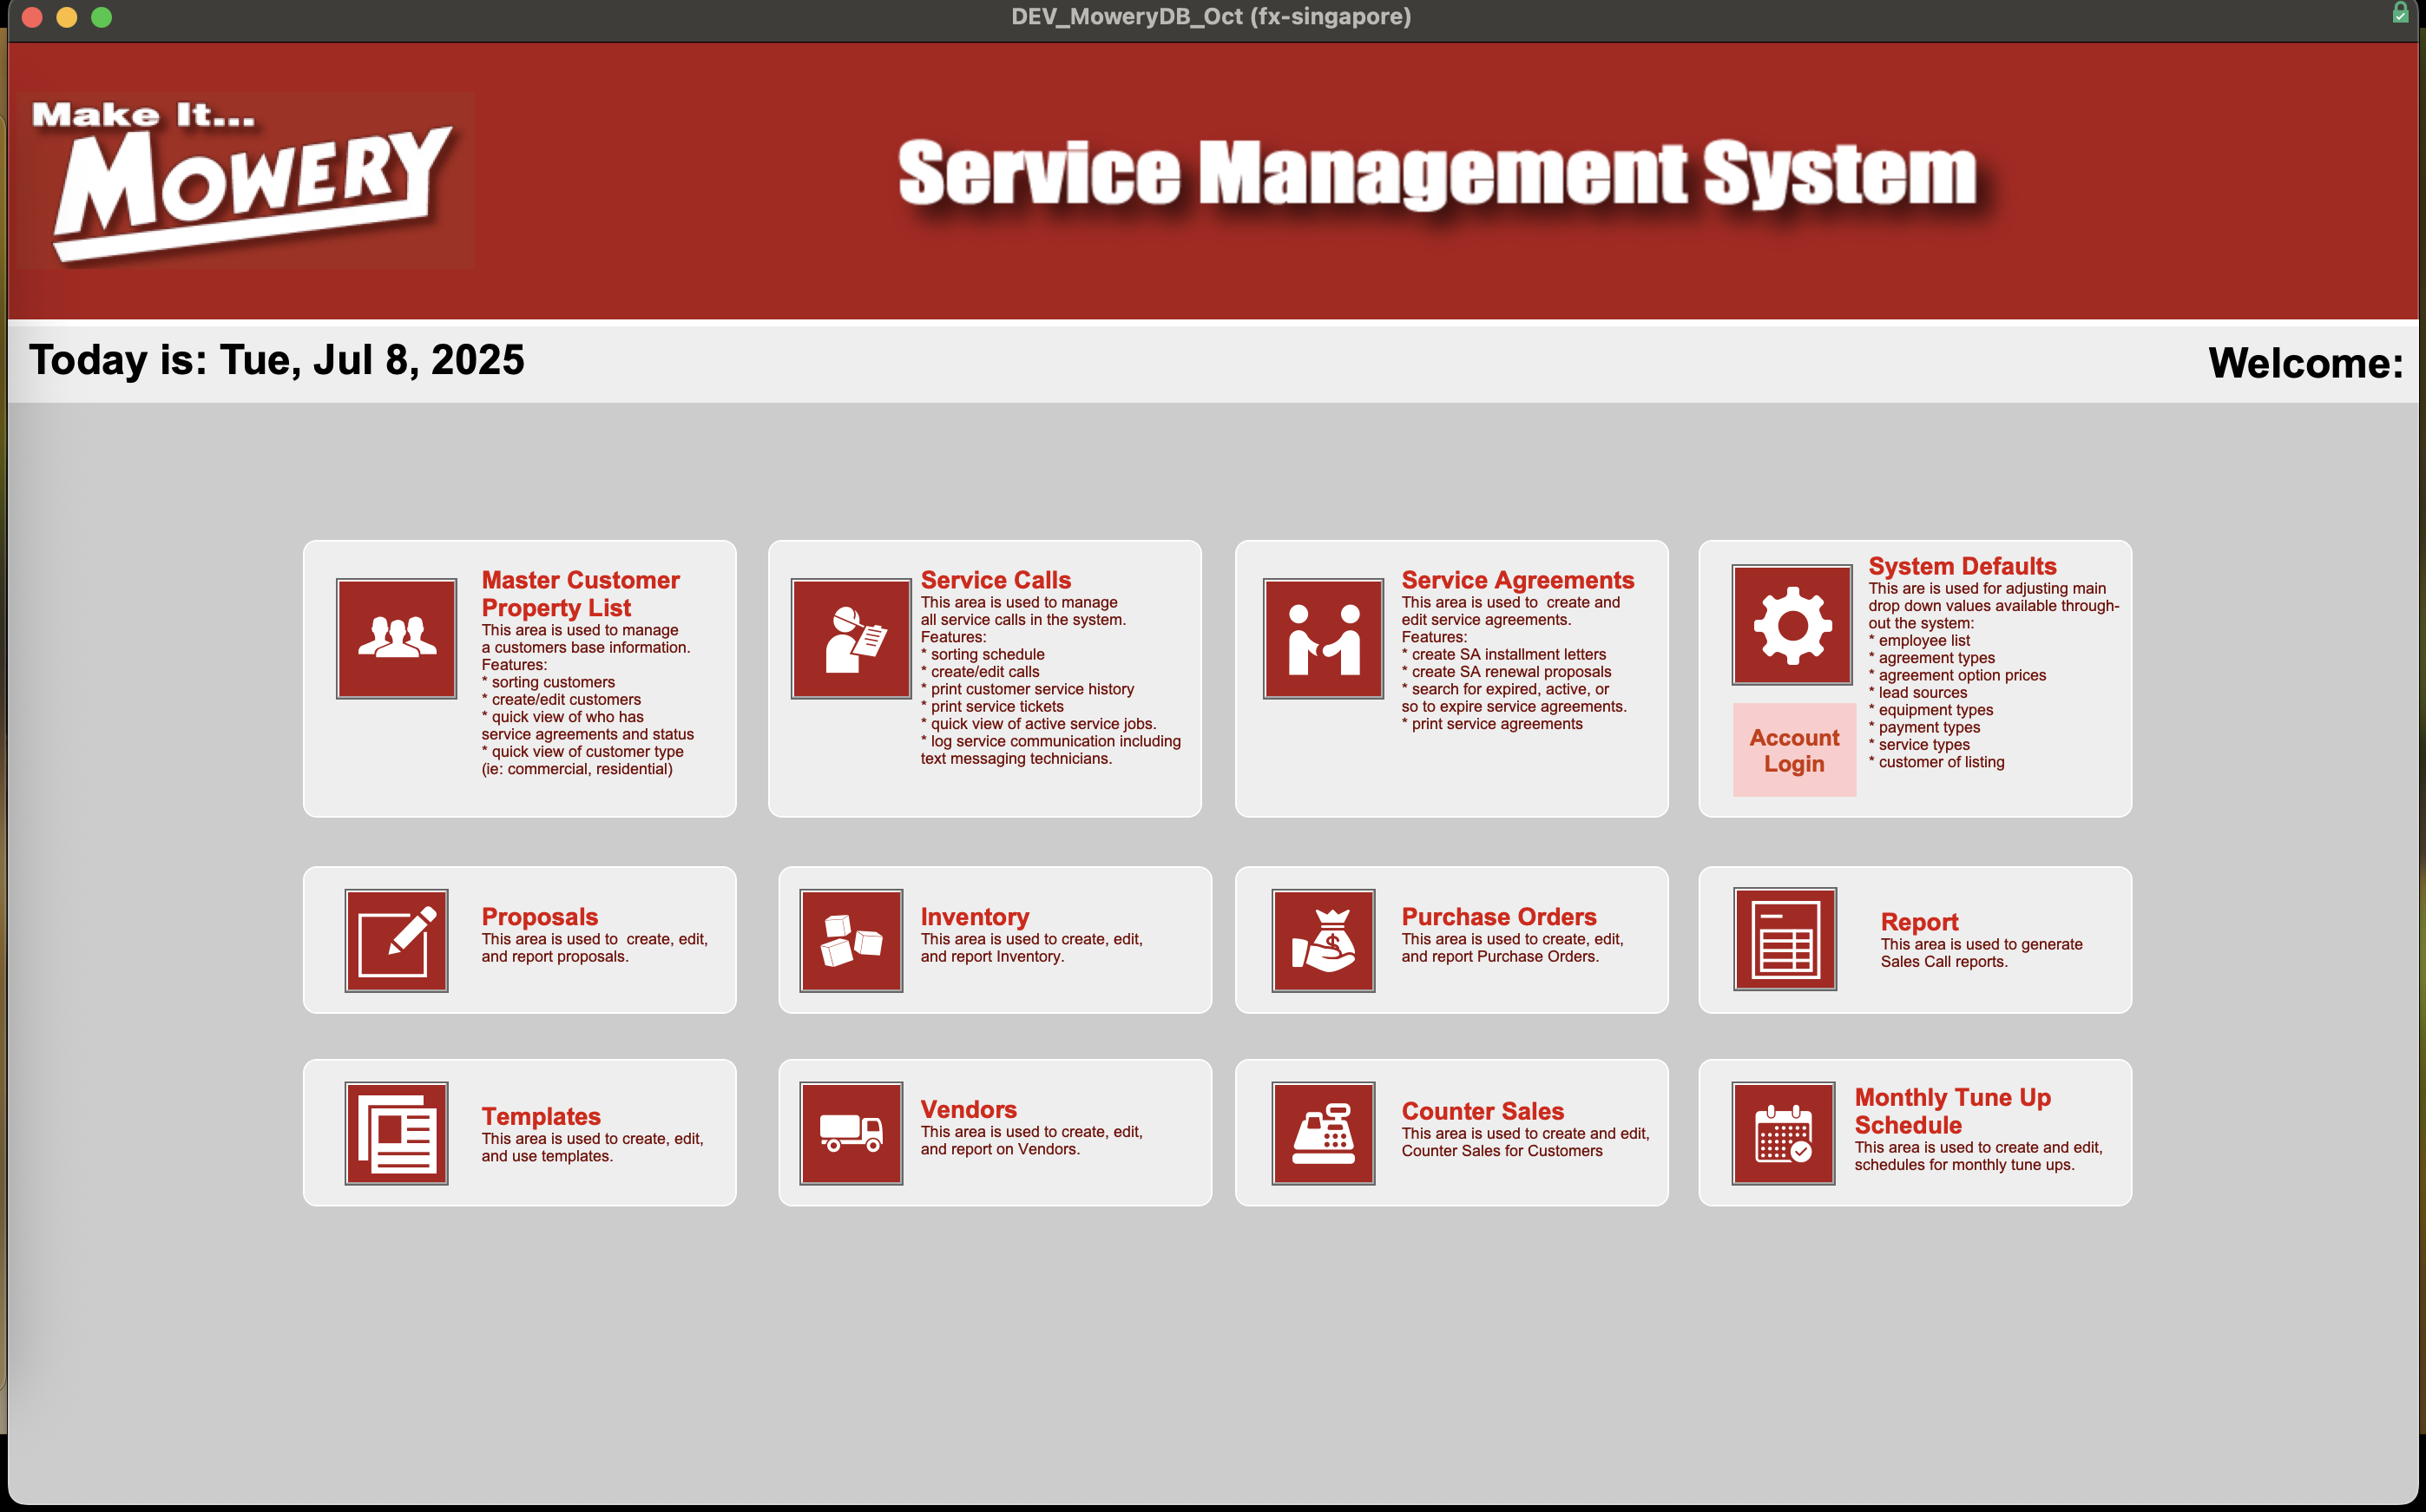
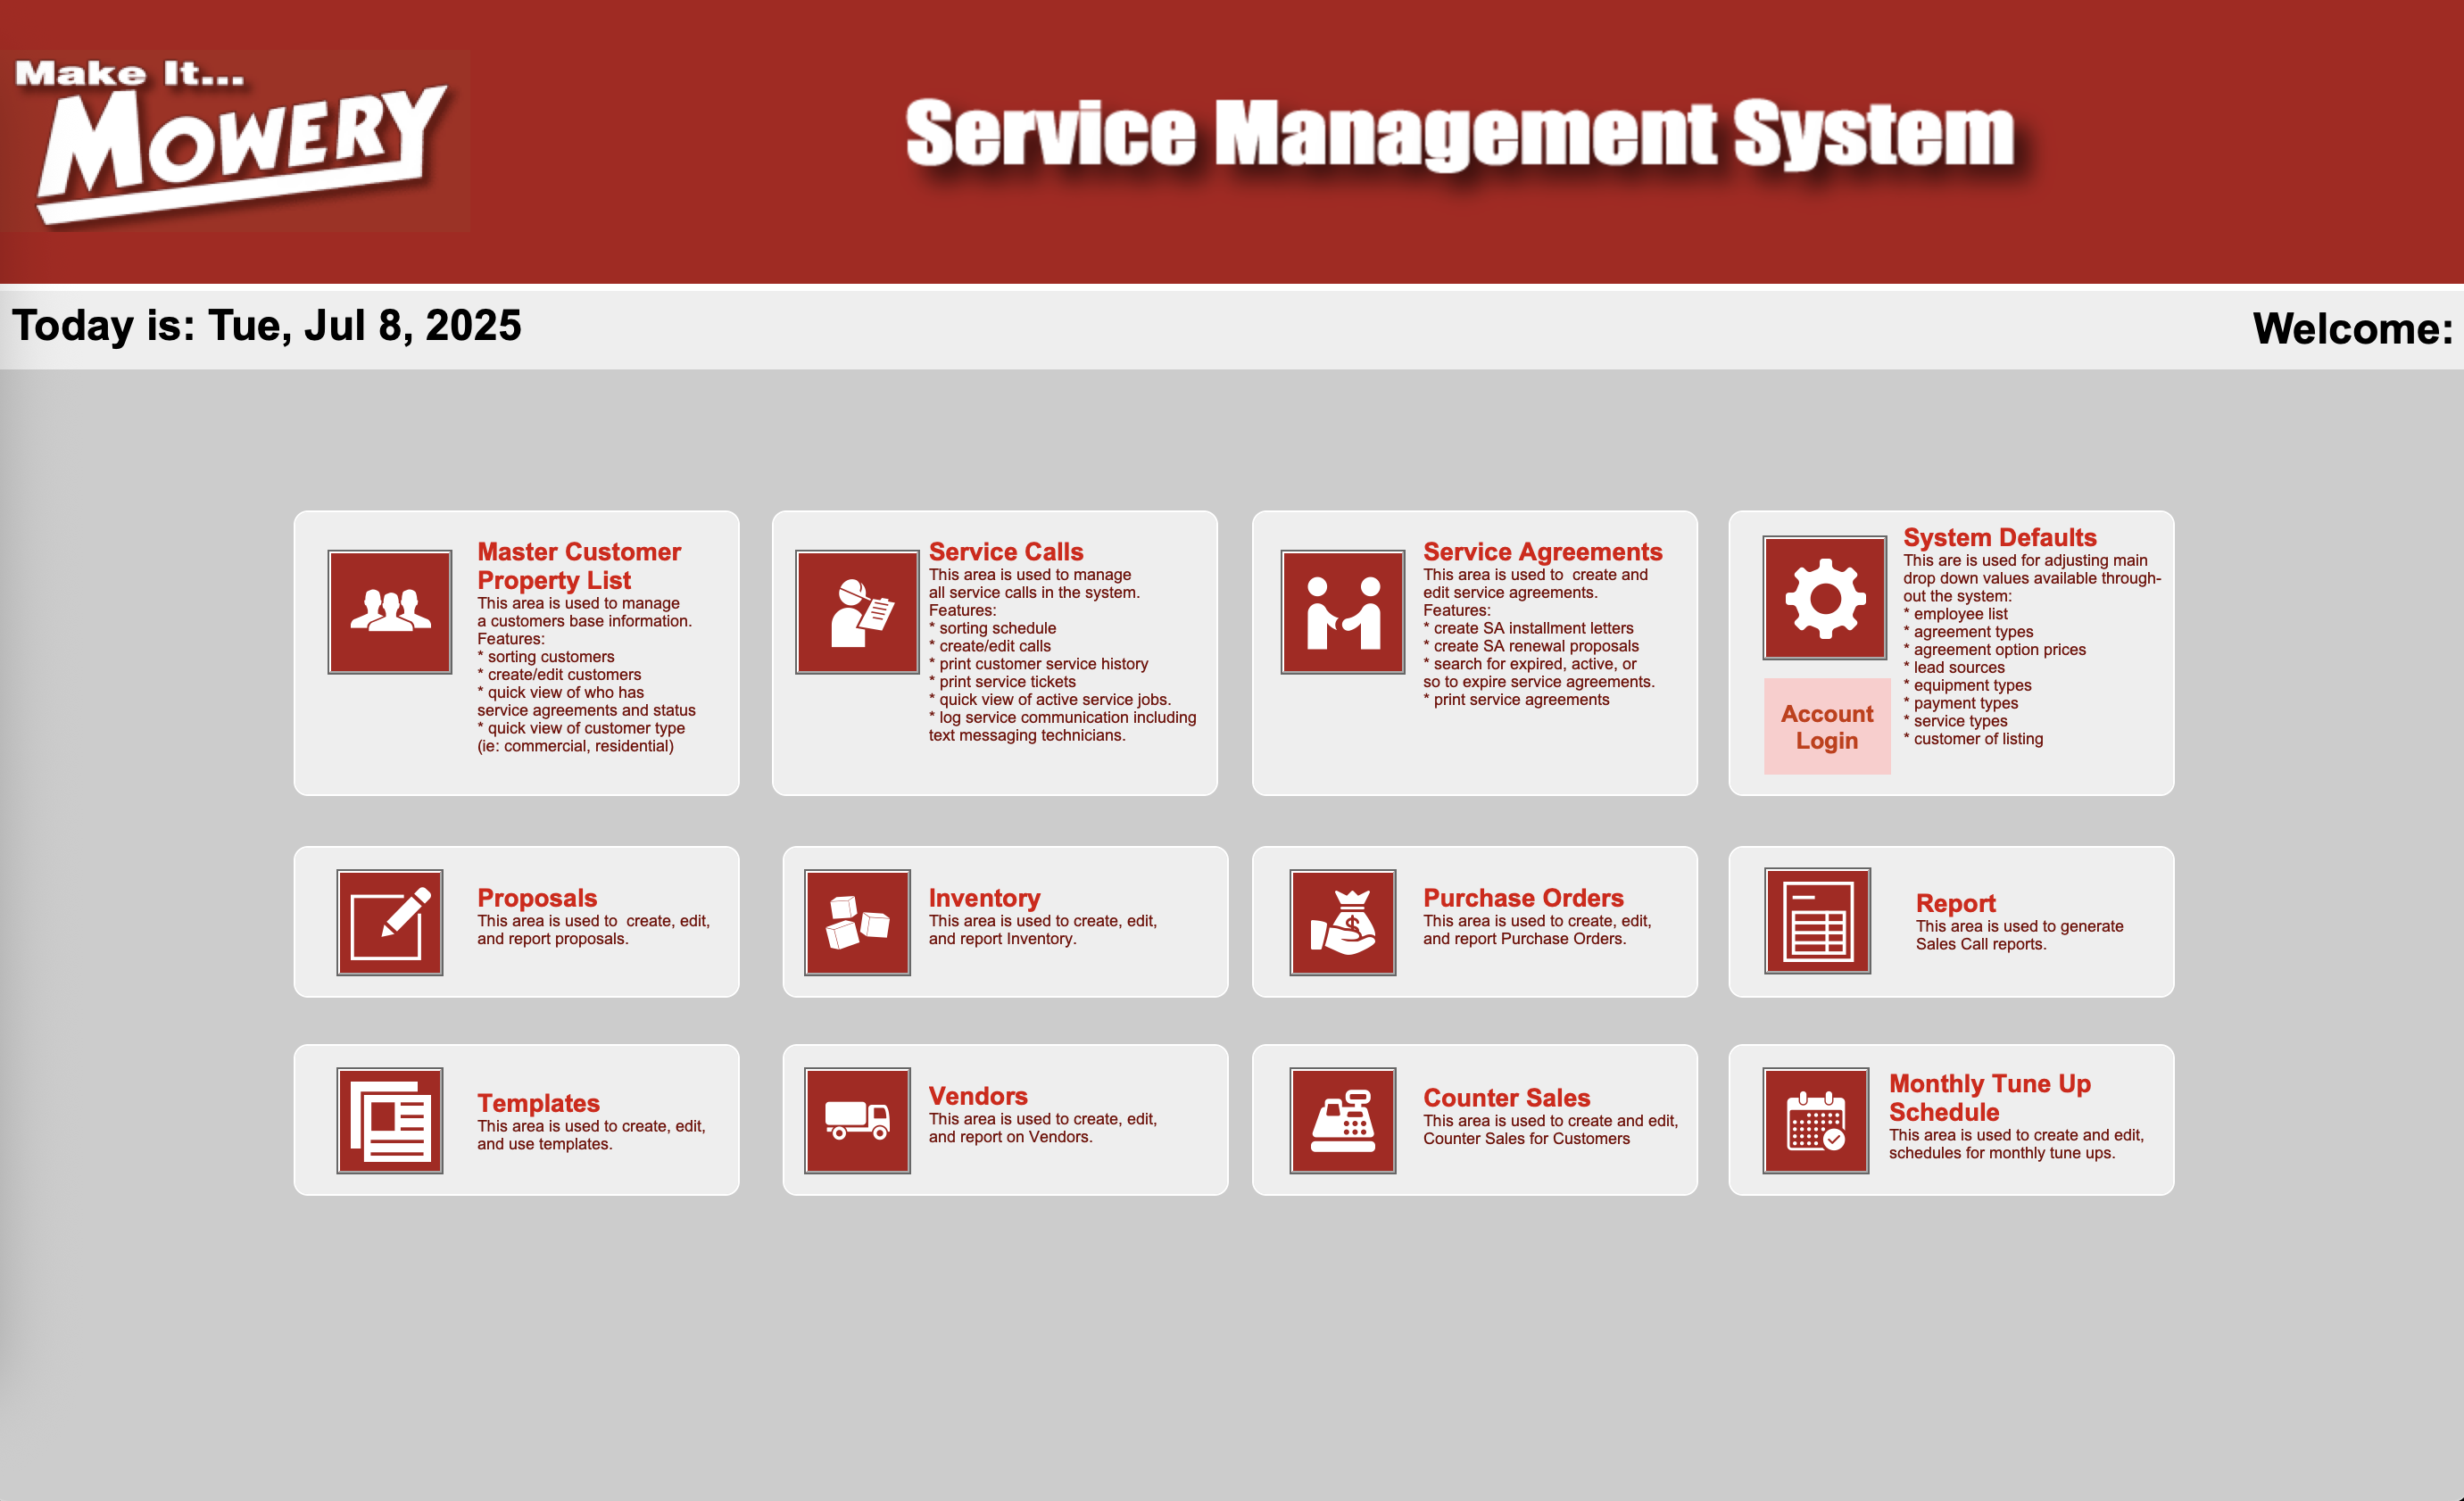
Edited Main Menu Image

Changed region(s): [[0.0934, 0.3401, 0.9033, 0.8038], [0.0, 0.0, 1.0, 1.0], [0.3426, 0.0618, 0.841, 0.1546]]

diff --git a/Mowery/2. Getting Started.md b/Mowery/2. Getting Started.md
@@ -73,6 +73,9 @@ This is your home screen for accessing all modules in the Mowery system.
 
 ### What’s on the Main Menu
 
+---
+<img src="https://github.com/Fx-Professional-Services/MoweryDocs/blob/staging/Mowery/Mowery%20User%20Guide/Images/main_menu.png" width="350" height="230">
+
 | Module                            | Description                                                                                                |
 | --------------------------------- | ---------------------------------------------------------------------------------------------------------- |
 | **Master Customer Property List** | Manage customer records, view service agreements, and see customer type (e.g., commercial or residential). |
@@ -87,9 +90,6 @@ This is your home screen for accessing all modules in the Mowery system.
 | **Vendors**                       | View and update vendor profiles.                                                                           |
 | **Counter Sales**                 | Record walk-in sales directly in the system.                                                               |
 | **Monthly Tune Up Schedule**      | Create and manage recurring monthly maintenance visits.                                                    |
-
----
-<img src="https://github.com/Fx-Professional-Services/MoweryDocs/blob/staging/Mowery/Mowery%20User%20Guide/Images/main_menu.png" width="350" height="230">
 
 ---
 